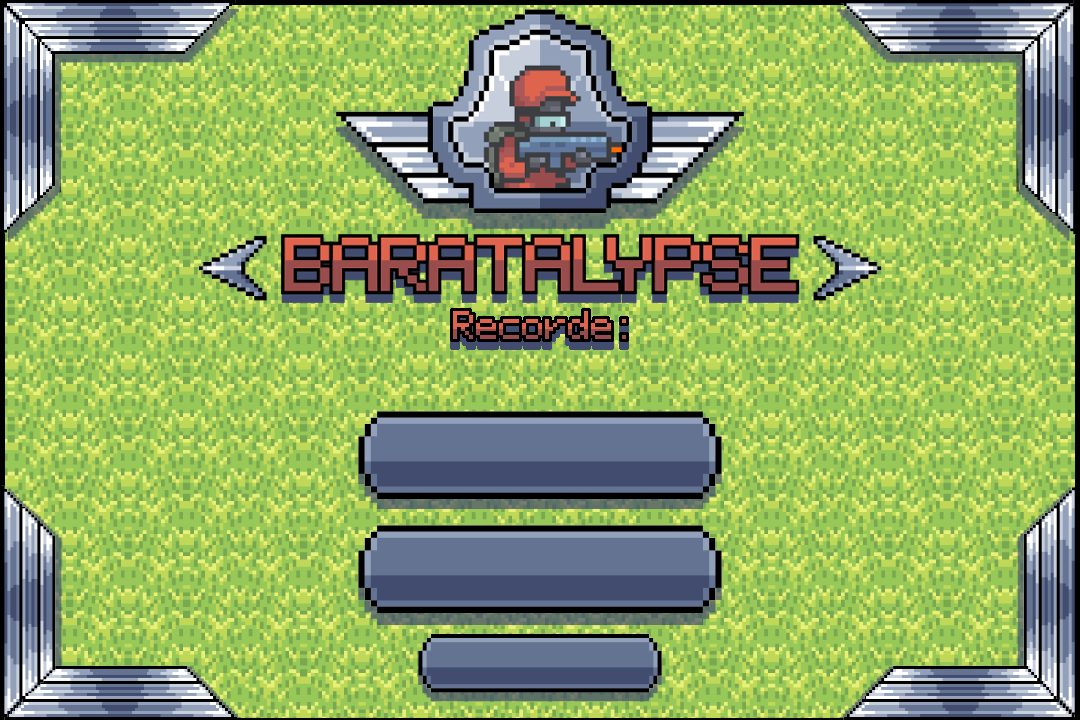
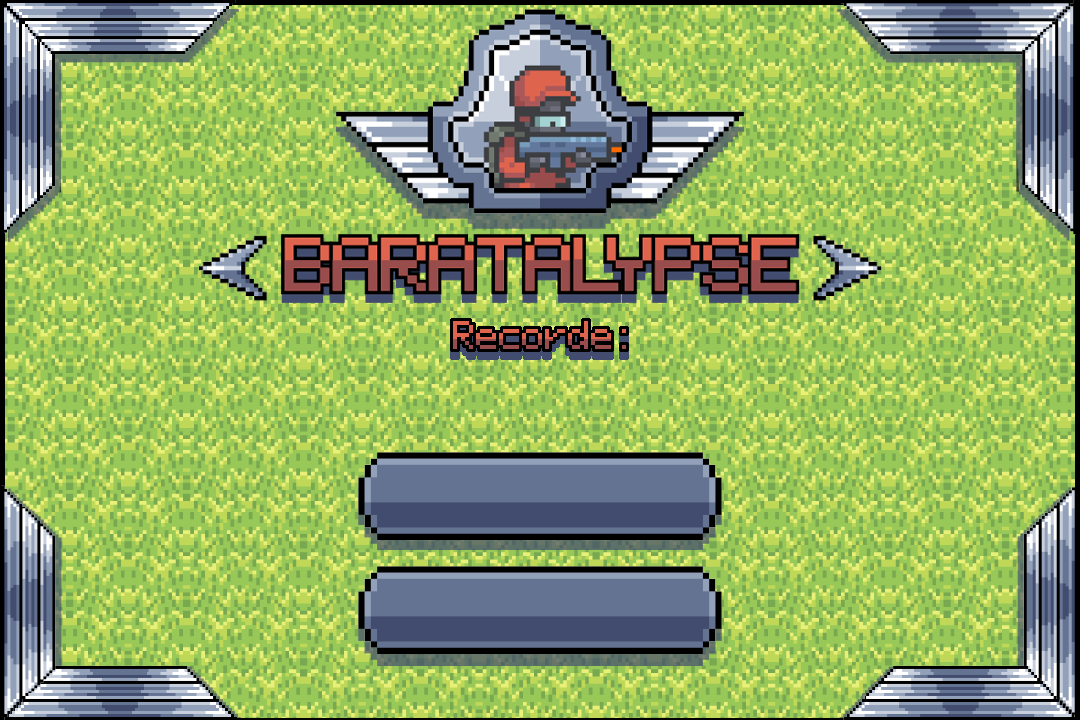
MENU

Changed region(s): [[0.3056, 0.55, 0.6722, 0.9778], [0.3972, 0.4278, 0.5806, 0.5194]]

diff --git a/Teste game Shooter/BARATALYPSE.py b/Teste game Shooter/BARATALYPSE.py
@@ -1,0 +1,81 @@
+import pygame
+import sys
+import subprocess
+
+# Initialize Pygame
+pygame.init()
+
+# Set up the display
+width, height = 1080, 720
+screen = pygame.display.set_mode((width, height))
+pygame.display.set_caption("BARATALYPSE")
+
+# Load background image
+background = pygame.image.load('menu page.png')
+
+# Define the Button class
+class Button:
+    def __init__(self, x, y, width, height, image_path, text="", font=None, font_size=36, font_color=(255, 255, 255)):
+        self.rect = pygame.Rect(x, y, width, height)
+        self.image = pygame.image.load(image_path)
+        self.image = pygame.transform.scale(self.image, (width, height))
+        
+        # Text attributes
+        self.text = text
+        self.font_path = 'PixeloidMono.ttf'  # Path to your PixeloidMono font file
+        self.font_size = font_size
+        self.font_color = font_color
+        self.font = pygame.font.Font(self.font_path, self.font_size)
+        
+        # Calculate text position
+        text_surface = self.font.render(self.text, True, self.font_color)
+        text_rect = text_surface.get_rect(center=self.rect.center)
+        self.text_image = text_surface
+        self.text_rect = text_rect
+
+    def draw(self, screen):
+        # Draw button image
+        screen.blit(self.image, self.rect)
+
+        # Draw button text
+        screen.blit(self.text_image, self.text_rect)
+
+    def handle_event(self, event):
+        if event.type == pygame.MOUSEBUTTONDOWN:
+            if event.button == 1:  # Left mouse button click
+                if self.rect.collidepoint(event.pos):
+                    return True
+        return False
+
+# Create button instances
+start_button = Button(358, 452, 364, 88, 'botao-grande.png', text="Start")
+tutorial_button = Button(358, 566, 364, 88, 'botao-grande.png', text="Tutorial")
+
+# Main loop
+running = True
+while running:
+    for event in pygame.event.get():
+        if event.type == pygame.QUIT:
+            running = False
+        if event.type == pygame.MOUSEBUTTONDOWN:
+            if event.button == 1:  # Left mouse button click
+                if start_button.handle_event(event):
+                    print("Start button clicked!")
+                    # Run the game script
+                    subprocess.run(["python", "gamefile_copy_4.py"])
+                elif tutorial_button.handle_event(event):
+                    print("Tutorial button clicked!")
+                    # Run the tutorial script
+                    subprocess.run(["python", "tutorial.py"])
+
+    # Draw background image
+    screen.blit(background, (0, 0))
+    
+    # Draw the buttons
+    start_button.draw(screen)
+    tutorial_button.draw(screen)
+    
+    pygame.display.flip()  # Update the display
+
+pygame.quit()
+sys.exit()

diff --git a/Teste game Shooter/menu.py b/Teste game Shooter/menu.py
@@ -1,35 +1,63 @@
 import pygame
 import sys
-from math import atan2, cos, sin
-from random import randint
-from pygame.math import Vector2
+import subprocess
 
 # Initialize Pygame
 pygame.init()
 
-# Set up Interface
-ScreenWidth = 1080
-ScreenHeight = 720
-window = pygame.display.set_mode((ScreenWidth, ScreenHeight))
-pygame.display.set_caption("Shoot 'em up!")
+# Set up the display
+width, height = 1080, 720
+screen = pygame.display.set_mode((width, height))
+pygame.display.set_caption("Game Menu")
 
-PixeloidMono = 'PixeloidMono.ttf'
-# Sprites
-bgmenu = pygame.image.load('bgGrass.png')
+# Load background image
+background = pygame.image.load('menu page.png')
 
-def redrawMenuWindow():
-    window.blit(bgmenu, (0, 0))
-    pygame.display.update()
+# Define the Button class
+class Button:
+    def __init__(self, x, y, width, height, image_path):
+        self.rect = pygame.Rect(x, y, width, height)
+        self.image = pygame.image.load(image_path)
+        self.image = pygame.transform.scale(self.image, (width, height))
+        self.is_hovered = False
 
+    def draw(self, screen):
+        screen.blit(self.image, self.rect)
 
-clock = pygame.time.Clock()
-run = True
-while run:
-    pygame.time.delay(25)
-    clock.tick(60)
-    events = pygame.event.get()
-    for event in events:
+    def handle_event(self, event):
+        if event.type == pygame.MOUSEMOTION:
+            self.is_hovered = self.rect.collidepoint(event.pos)
+        elif event.type == pygame.MOUSEBUTTONDOWN:
+            if self.is_hovered:
+                return True
+        return False
+
+# Create a button instance
+start_button = Button(358, 452, 364, 88, 'botao-grande.png')
+tutorial_button = Button(358, 566, 364, 88, 'botao-grande.png')
+
+# Main loop
+running = True
+while running:
+    for event in pygame.event.get():
         if event.type == pygame.QUIT:
-            run = False
+            running = False
+        if start_button.handle_event(event):
+            print("Start button clicked!")
+            # Run the game script
+            subprocess.run(["python", "gamefile_copy_4.py"])
+        if tutorial_button.handle_event(event):
+            print("Tutorial button clicked!")
+            # Run the game script
+            subprocess.run(["python", "tutorial.py"])
 
-    redrawMenuWindow()
+    # Draw background image
+    screen.blit(background, (0, 0))
+    
+    # Draw the start button
+    start_button.draw(screen)
+    
+    pygame.display.flip()  # Update the display
+
+pygame.quit()
+sys.exit()

diff --git a/Teste game Shooter/tutorial.py b/Teste game Shooter/tutorial.py
@@ -1,0 +1,30 @@
+import pygame
+import sys
+
+# Initialize Pygame
+pygame.init()
+
+# Set up the display
+width, height = 1080, 720
+screen = pygame.display.set_mode((width, height))
+pygame.display.set_caption("Game Menu")
+
+# Load background image
+background = pygame.image.load('tutorial page.png')
+
+# Main loop
+running = True
+while running:
+    for event in pygame.event.get():
+        if event.type == pygame.QUIT:
+            running = False
+
+
+    # Draw background image
+    screen.blit(background, (0, 0))
+    
+    
+    pygame.display.flip()  # Update the display
+
+pygame.quit()
+sys.exit()
